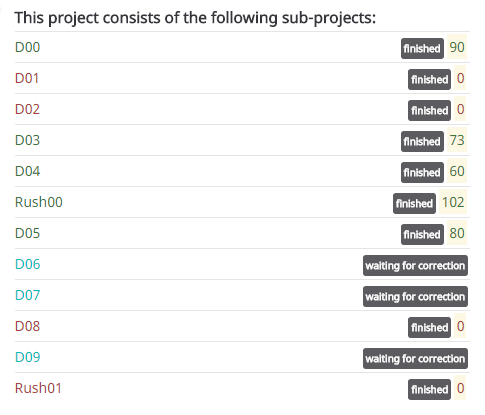
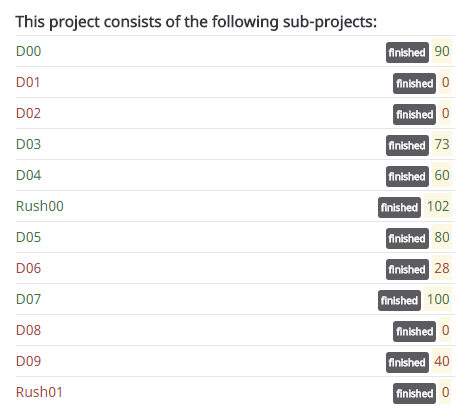
updated grades

diff --git a/README.md b/README.md
@@ -1,10 +1,9 @@
 # Piscine PHP , Apr 2015
 >>>>> #####2 week initiation to php and web.
 
-#####Grade ``(tbd/125)`` ``(tbd/125)``
+#####Grade ``(73/100)`` ``(73/125)``
 --------  -----------------------
 
-<br>
 ![grades](./grades.png)
  
 <br><br><br><br><br><br><br><br>
